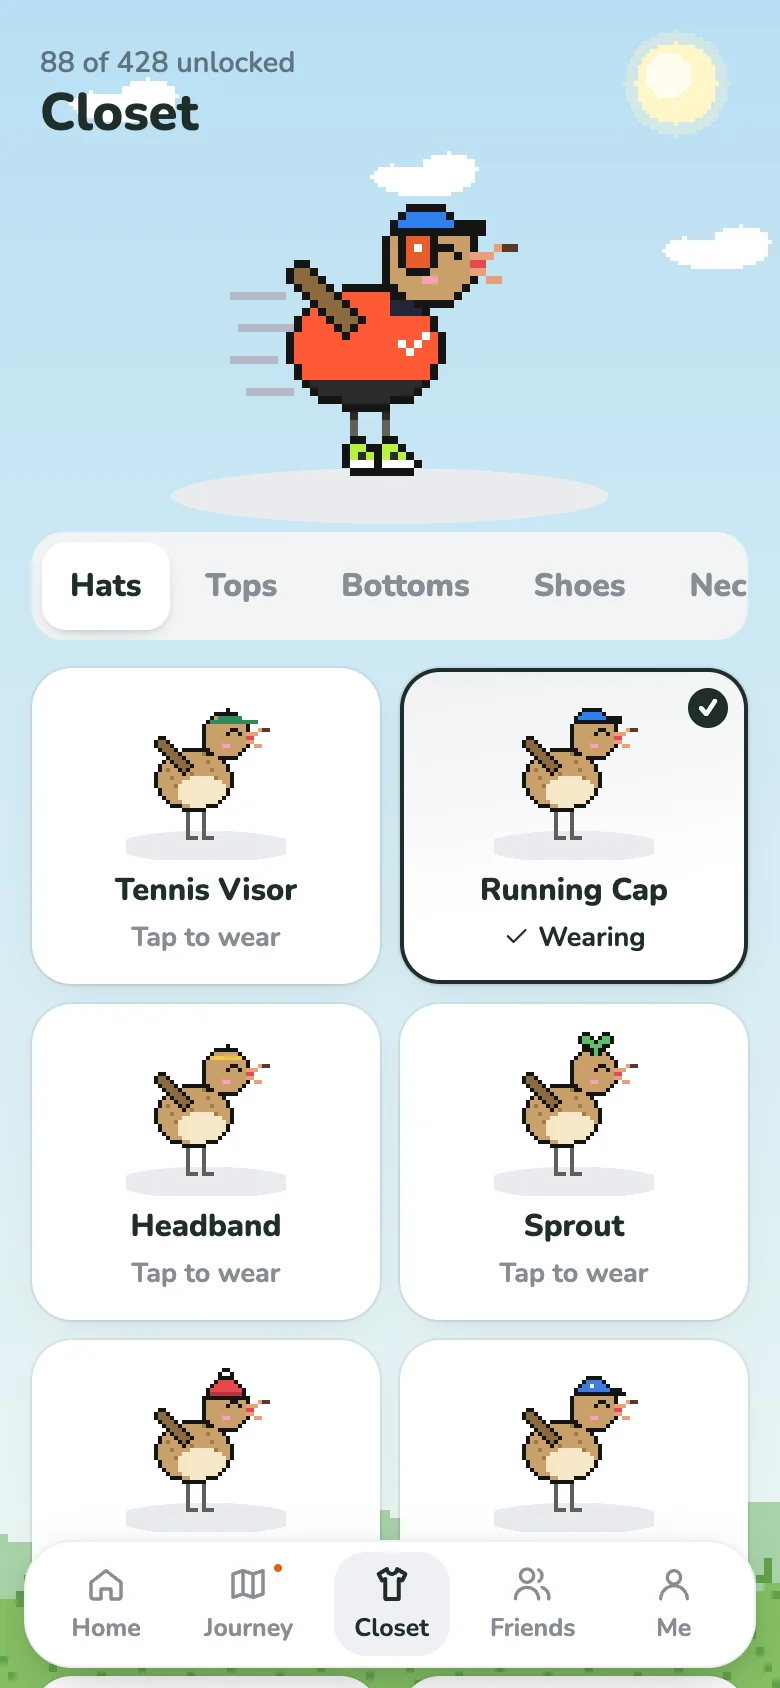
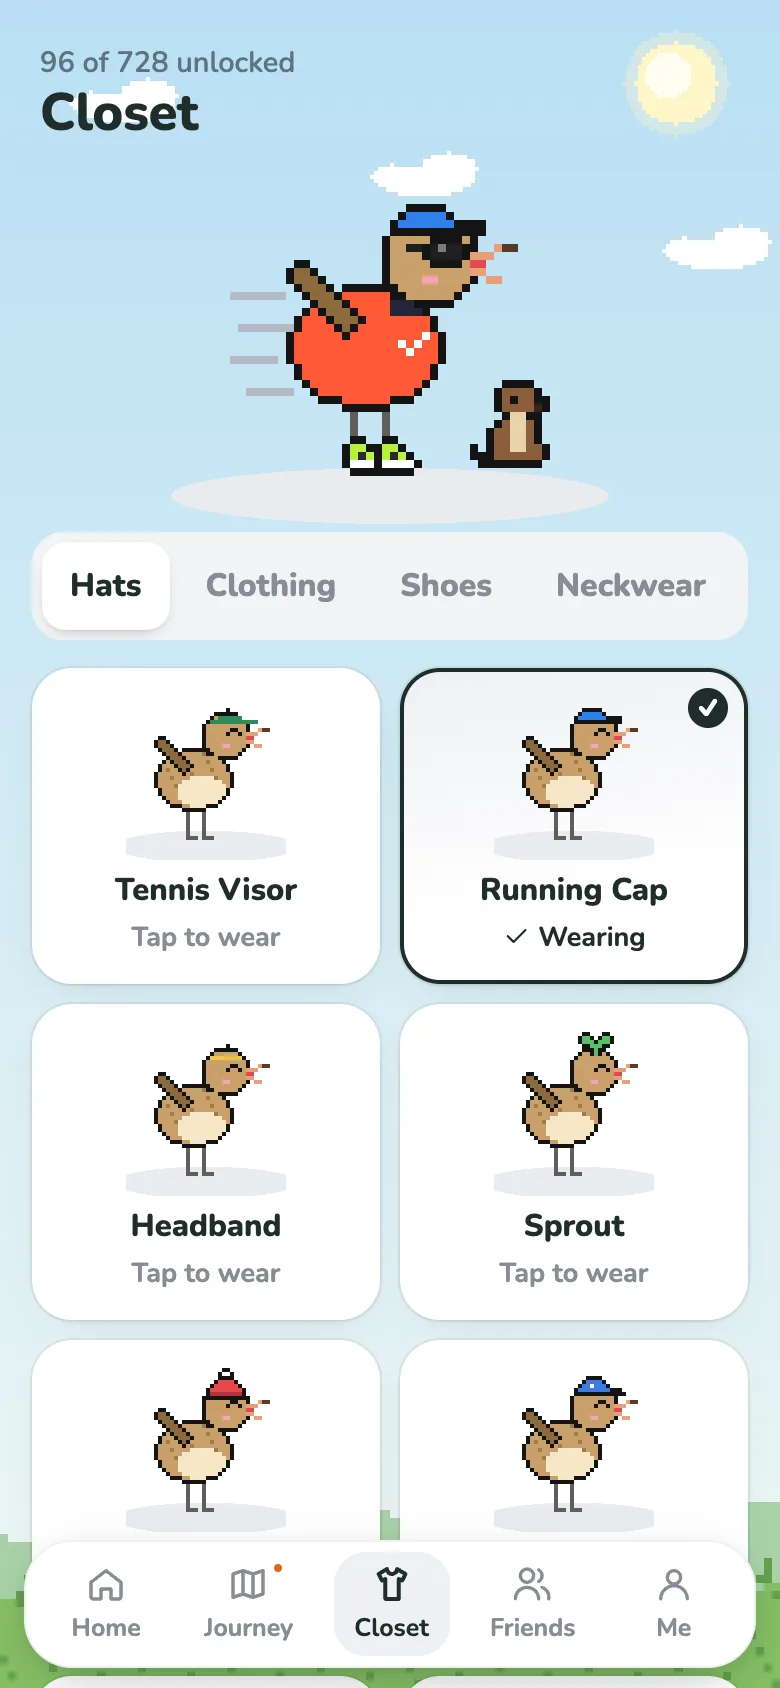
Add files via upload

diff --git a/index.html b/index.html
@@ -34,16 +34,20 @@
           <b>You're the travel buddy</b><span>Every step carries Pip 10 metres. Workouts make tomorrow's steps go further.</span></li>
         <li><span class="tag">Getting started</span><img src="shot-onb-souvenirs.webp" width="390" height="844" alt="Onboarding: postcards and souvenirs from each stop" loading="lazy">
           <b>Postcards and souvenirs</b><span>Choose where Pip flies. Every stop sends a postcard and a souvenir to wear.</span></li>
-        <li><span class="tag">In the app</span><img src="shot-home.webp" width="390" height="844" alt="Home: today's flight from San Francisco to Honolulu, Pip's mood ring, and today's steps, active minutes and distance flown" loading="lazy">
+        <li><span class="tag">In the app</span><img src="shot-home.webp" width="390" height="844" alt="Home: today's flight from San Francisco to Honolulu, Pip in the mood ring with an otter companion, and today's steps, active minutes and distance flown" loading="lazy">
           <b>Home</b><span>Today's flight, Pip's mood, your steps and active minutes, and the week at a glance.</span></li>
         <li><span class="tag">In the app</span><img src="shot-journey.webp" width="390" height="844" alt="Journey: the trip card flying to Honolulu, and a row of postcards collected" loading="lazy">
           <b>The journey</b><span>Where Pip is headed, when Pip arrives, and every postcard so far.</span></li>
         <li><span class="tag">In the app</span><img src="shot-map.webp" width="390" height="844" alt="World map: Pip's route down the west coast of North America, with friends' Pips flying nearby" loading="lazy">
           <b>World map</b><span>Follow the route, and see your friends' Pips flying beside yours.</span></li>
+        <li><span class="tag">In the app</span><img src="shot-passport.webp" width="390" height="844" alt="Passport: walking in Malaysia with 14,650 of 20,000 steps toward its companion, and stamps from Singapore, Australia, Japan and Indonesia" loading="lazy">
+          <b>Passport</b><span>Walk 20,000 steps in a country and an animal from there joins Pip. A stamp for every country you walk in.</span></li>
+        <li><span class="tag">In the app</span><img src="shot-treats.webp" width="390" height="844" alt="Daily treats: October's gift, a pumpkin lantern, earned, above a calendar with a treat on each day checked in" loading="lazy">
+          <b>Daily treats</b><span>A treat each day you open the app, and a closet gift for 25 days in a month.</span></li>
         <li><span class="tag">In the app</span><img src="shot-friends.webp" width="390" height="844" alt="Friends: this week's step leaderboard and each friend's Pip with steps today" loading="lazy">
           <b>Fly with friends</b><span>A weekly leaderboard, cheers, and trips to the same place together.</span></li>
-        <li><span class="tag">In the app</span><img src="shot-closet.webp" width="390" height="844" alt="Closet: Pip wearing a running cap and kit, above a grid of hats to choose from" loading="lazy">
-          <b>Closet</b><span>Over 400 outfits, perches, pets and scenes to dress Pip up in.</span></li>
+        <li><span class="tag">In the app</span><img src="shot-closet.webp" width="390" height="844" alt="Closet: Pip in a running cap, sunglasses and running top with an otter companion, above a grid of hats to choose from" loading="lazy">
+          <b>Closet</b><span>Over 400 outfits, perches and scenes to dress Pip up in.</span></li>
         <li><span class="tag">In the app</span><img src="shot-journal.webp" width="390" height="844" alt="Trip journal: polaroid photos from walks, each with a handwritten caption and Pip's stamp" loading="lazy">
           <b>Trip journal</b><span>Photos from your walks, stamped with where Pip was that day.</span></li>
       </ol>
@@ -55,6 +59,8 @@
         <li><b>Any watch or fitness app</b><span>Steps come from Health Connect on Android or Apple Health on iPhone, so Samsung Health, Fitbit, Garmin, Strava and others all count.</span></li>
         <li><b>A real route</b><span>Pip flies between real places, from Alaska to wherever you choose next, with a postcard from each stop.</span></li>
         <li><b>A bird with moods</b><span>Pip is happiest when you hit your goal, and a little restless on quiet days.</span></li>
+        <li><b>A passport for your travels</b><span>Walk 20,000 steps in a country and an animal from there joins Pip, like an otter in Singapore or a puffin in Iceland. There's one for every country and territory. Optional, and it keeps only the country's name.</span></li>
+        <li><b>A treat every day</b><span>Open the app each day and Pip finds a treat. Check in on 25 days of a month to unlock that month's closet gift.</span></li>
         <li><b>Medals and titles</b><span>A hundred medals to earn, including seasonal ones for being where wild godwits are.</span></li>
       </ul>
 

diff --git a/privacy.html b/privacy.html
@@ -32,9 +32,18 @@
         Health Connect or Apple Health in the released version.</li>
       <li><b>Motion sensor</b>, only in the web version, and only if you start step counting there.</li>
       <li><b>Photos you pick</b> for your trip journal. The app only sees the photo you choose.</li>
+      <li><b>Approximate location</b>, only if you turn on the <b>Passport</b>, and only while the app is
+        open. The Passport counts your steps in each country you visit. The app asks your phone roughly where
+        it is (never your precise location, and never in the background), works out the country on the phone
+        itself, and keeps only the country's name with each day's step count. To share a day's steps
+        between countries, it also remembers when each check happened and the phone's time zone then, for
+        two weeks. Coordinates are never stored or sent anywhere. You can turn the Passport off at any time, and remove location access in your phone's
+        settings.</li>
+      <li><b>Notifications</b>, only if you turn on daily treat reminders. They're scheduled on your phone
+        for 8am and 8pm; nothing is sent from a server, and turning them off in Settings cancels them.</li>
     </ul>
-    <p>The app does not use your location, contacts, microphone or advertising ID. Pip's position on the map
-      is Pip's flight, worked out from your step count, not where you are.</p>
+    <p>The app does not use your contacts, microphone or advertising ID. Pip's position on the map is Pip's
+      flight, worked out from your step count, not where you are.</p>
 
     <h2>What stays on your phone</h2>
     <p>Everything, by default. Your step history, workouts, Pip's journey, postcards, outfits, medals and trip
@@ -47,9 +56,9 @@
       <li>Your <b>email address</b> (and, if you sign in with Google or Apple, the basic profile those
         services share: your email and an account ID). Passwords are stored only as secure hashes.</li>
       <li>A <b>backup of your progress</b>: the same things the app saves on your phone, including daily step
-        counts, workouts and your trip journal photos and captions.</li>
+        counts, workouts, the countries your Passport counted steps in, and your trip journal photos and captions.</li>
       <li>For friends: a <b>friend code</b>, your <b>nickname</b>, and a summary your accepted friends can see:
-        how Pip looks and where Pip is on the route, postcards and medals, and today's and this week's steps
+        how Pip looks (including any companion Pip has found) and where Pip is on the route, postcards and medals, and today's and this week's steps
         (you can turn steps off in Settings). Your trip journal is never shared with friends.</li>
     </ul>
 
